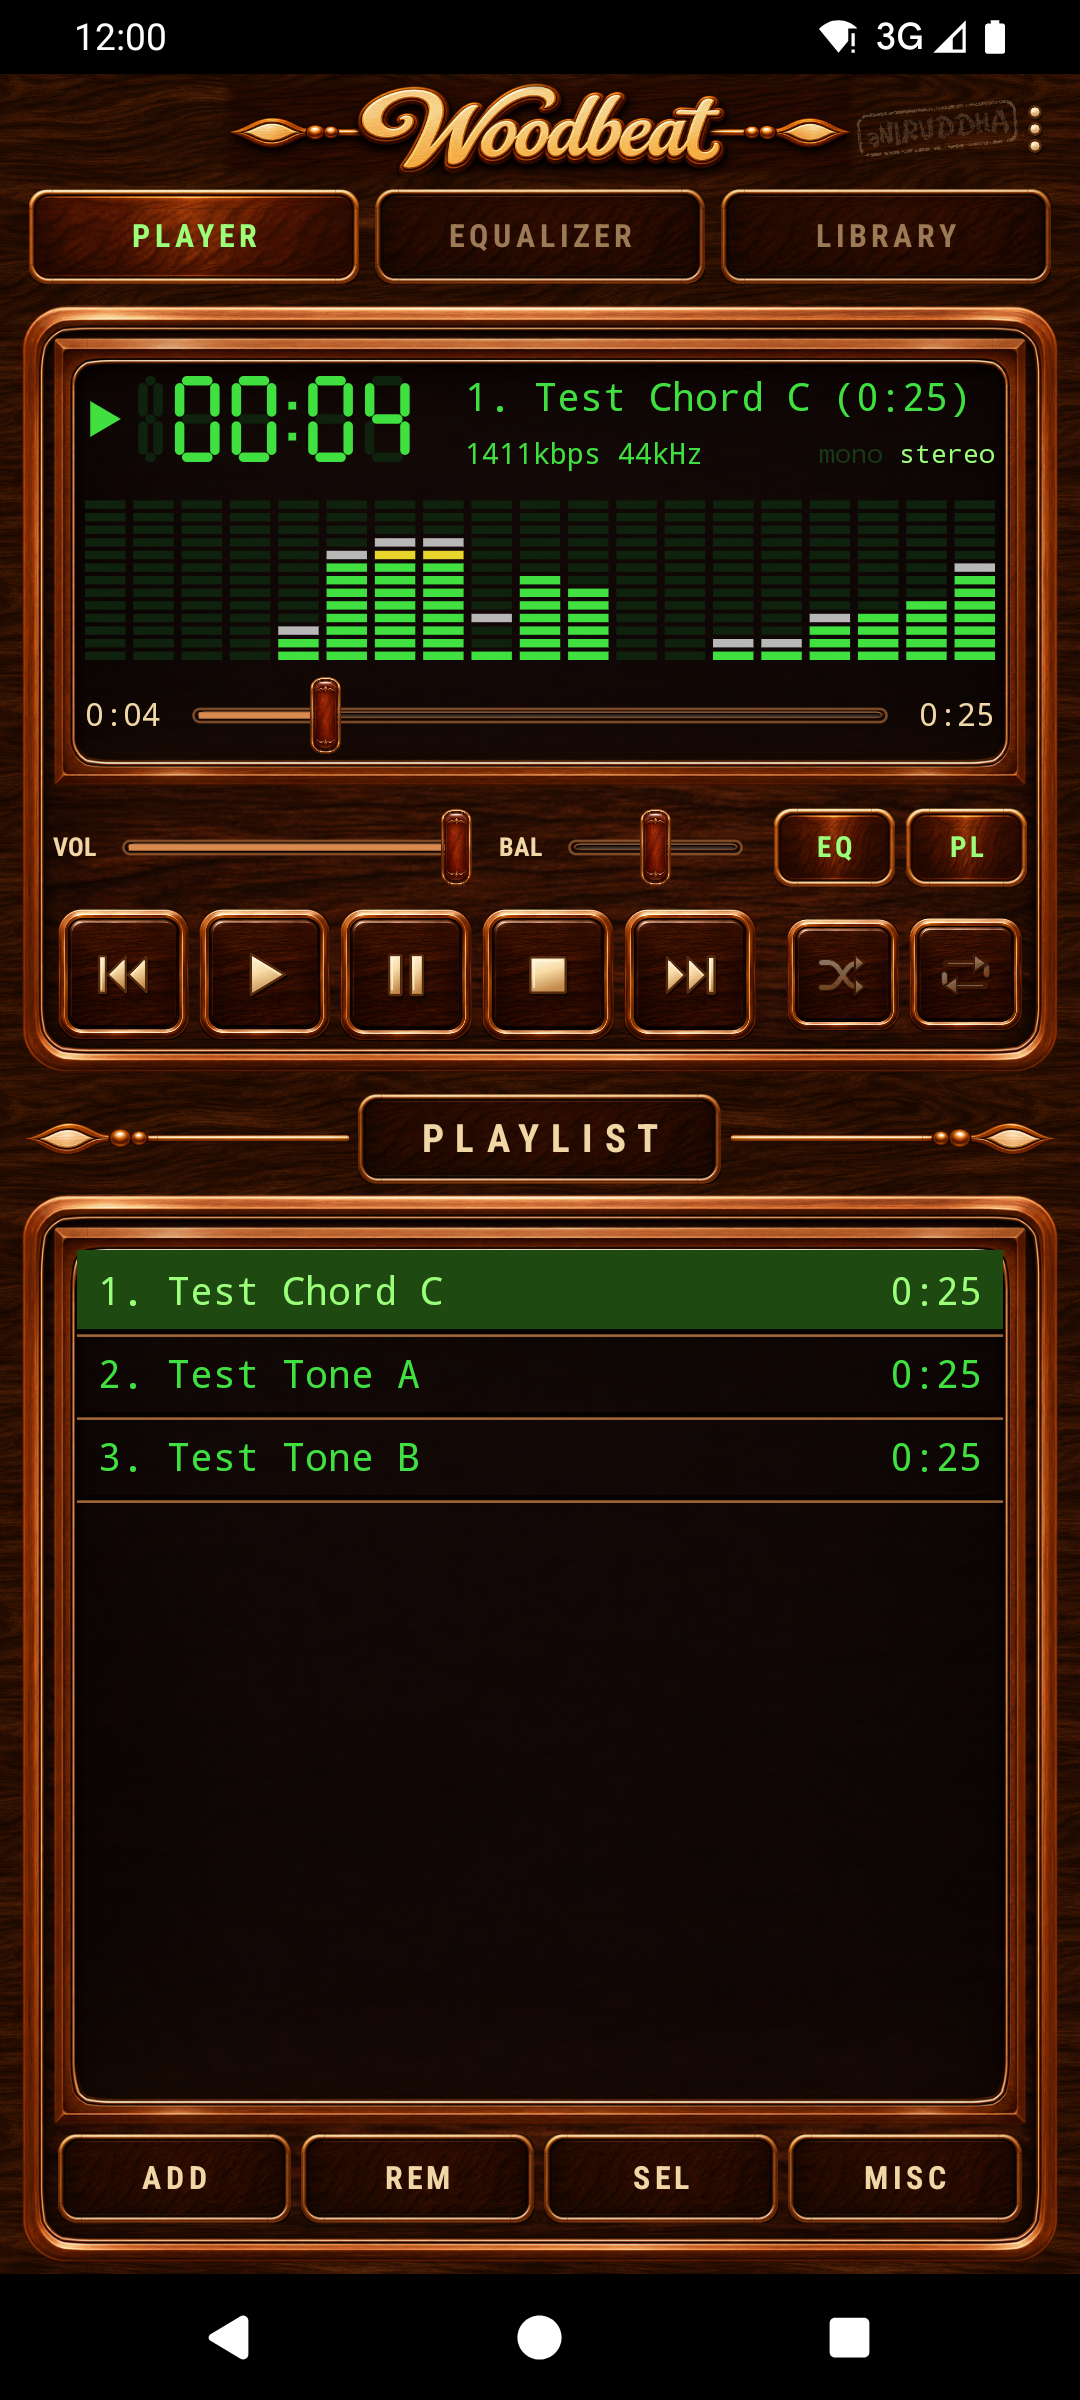
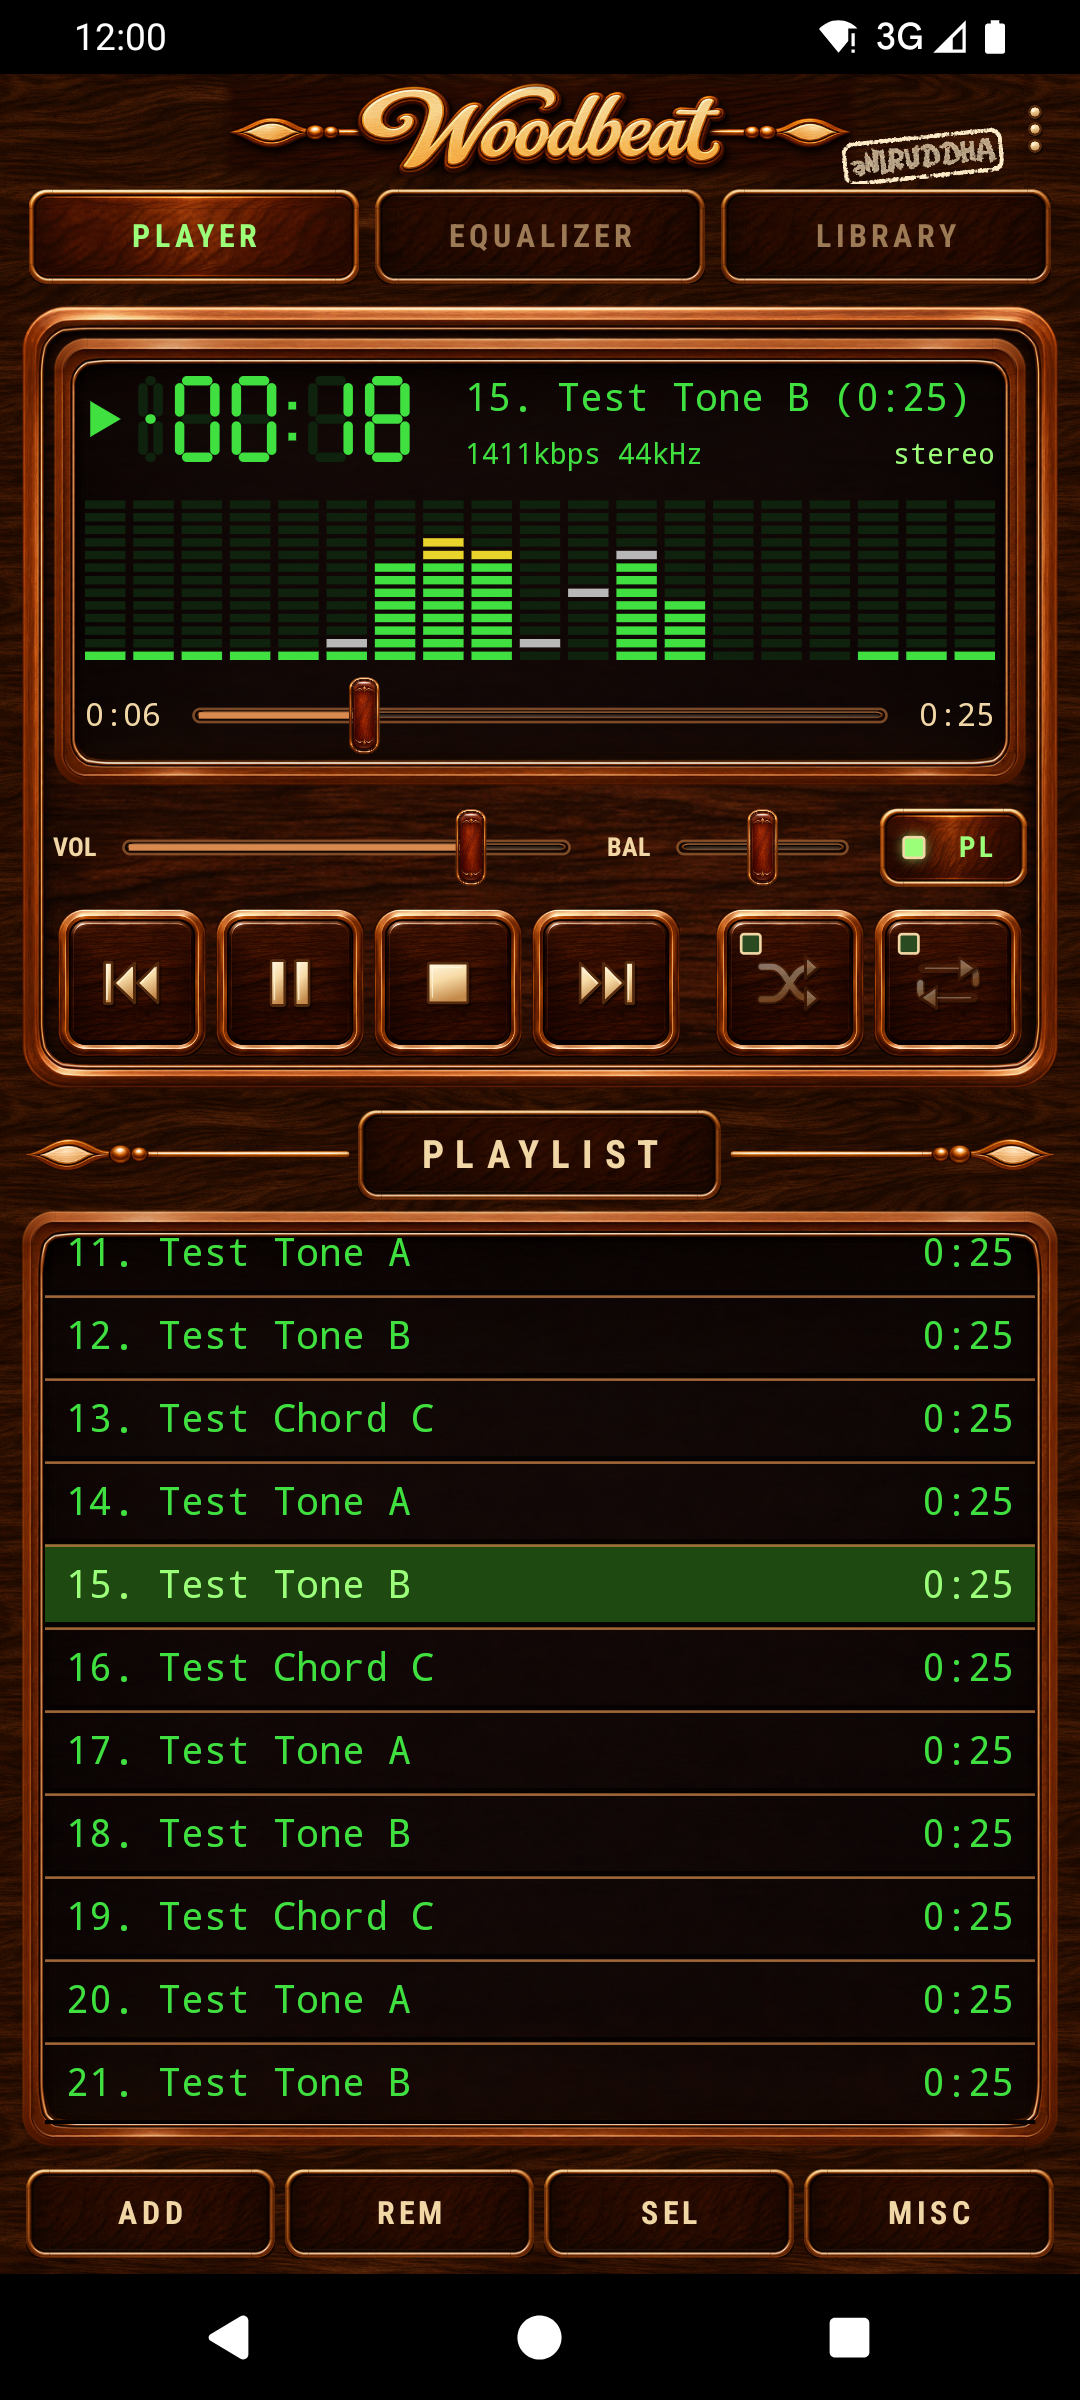
WoodBeat 0.1.3: play/pause button, toggle lights, playlist follows the song
- Play and Pause merged into one button; Stop stays separate
- Shuffle and repeat full size on the right, with Winamp-style toggle
  lights (ivory-framed green square); PL button gets the same light
- EQ button removed from the Player (Equalizer has its own tab);
  volume slider takes the space
- Playlist brings the playing song into view when you return, follows
  it on song change only if it was on screen, never while scrolling
- New list shows the playlist again
- README screenshots retaken

diff --git a/src/main/kotlin/app/adc/woodbeat/PlayerPage.kt b/src/main/kotlin/app/adc/woodbeat/PlayerPage.kt
@@ -27,8 +27,8 @@ class PlayerPage(private val a: MainActivity) {
     private val seek = WoodSlider(a, false).apply { showFill = true }
     private val volume = WoodSlider(a, false).apply { showFill = true }
     private val balance = WoodSlider(a, false).apply { snapCenter = true; centerTick = true }
-    private val eqToggle = Plaque(a, "EQ", 11f).apply { toggle = true }
-    private val plToggle = Plaque(a, "PL", 11f).apply { toggle = true }
+    private val plToggle = Plaque(a, "PL", 11f).apply { toggle = true; led = true }   // light shows the playlist is visible
+    private val playPause = WoodButton(a, R.drawable.glyph_play)
     private val shuffle = WoodButton(a, R.drawable.glyph_shuffle).apply { toggle = true }
     private val repeat = WoodButton(a, R.drawable.glyph_repeat).apply { toggle = true }
     private val list = RecyclerView(a)
@@ -90,11 +90,10 @@ class PlayerPage(private val a: MainActivity) {
         // Volume / balance / EQ / PL
         val vb = a.hbox()
         vb.addView(a.text(10f, Colors.IVORY, bold = true).apply { text = "VOL" }, lp(WRAP, WRAP))
-        vb.addView(volume, lp(0, a.dpi(30f), 2f).margins(a, 4f, 0f, 8f, 0f))
+        vb.addView(volume, lp(0, a.dpi(30f), 2.6f).margins(a, 4f, 0f, 8f, 0f))   // takes the old EQ button's space
         vb.addView(a.text(10f, Colors.IVORY, bold = true).apply { text = "BAL" }, lp(WRAP, WRAP))
         vb.addView(balance, lp(0, a.dpi(30f), 1.1f).margins(a, 4f, 0f, 6f, 0f))
-        vb.addView(eqToggle, lp(a.dpi(46f), a.dpi(30f)).margins(a, 0f, 0f, 4f, 0f))
-        vb.addView(plToggle, lp(a.dpi(46f), a.dpi(30f)))
+        vb.addView(plToggle, lp(a.dpi(56f), a.dpi(30f)))
         main.addView(vb, lp(MATCH, WRAP).margins(a, 0f, 8f, 0f, 4f))
         volume.value = Engine.prefs(a).getFloat("volume", 1f)
         volume.onChange = { v -> a.controller?.volume = v }
@@ -102,22 +101,20 @@ class PlayerPage(private val a: MainActivity) {
         balance.value = Engine.dsp.balance / 2f + 0.5f
         balance.onChange = { v -> Engine.dsp.balance = (v - 0.5f) * 2f }
         balance.onRelease = { Engine.saveDsp(a) }
-        eqToggle.setOnClickListener { a.showPage(1) }
-        eqToggle.setOnLongClickListener { a.eqPage.setEnabled(!Engine.dsp.enabled); true }
         plToggle.setOnClickListener { setPlaylistVisible(!plToggle.lit) }
 
         // Transport
         val tr = a.hbox()
         fun b(g: Int, click: () -> Unit) = WoodButton(a, g).apply { setOnClickListener { click() } }
+        // Play and Pause share one button (shows ⏸ while playing); Stop stays separate.
         val buttons = listOf(
             b(R.drawable.glyph_previous) { a.controller?.seekToPreviousMediaItem() },
-            b(R.drawable.glyph_play) { play() },
-            b(R.drawable.glyph_pause) { pause() },
+            playPause.apply { setOnClickListener { togglePlay() } },
             b(R.drawable.glyph_stop) { stop() },
             b(R.drawable.glyph_next) { a.controller?.seekToNextMediaItem() },
         )
         for (x in buttons) tr.addView(x, lp(0, WRAP, 1f).margins(a, 2f, 0f, 2f, 0f))
-        tr.addView(View(a), lp(a.dpi(8f), 1))
+        tr.addView(View(a), lp(a.dpi(10f), 1))     // gap: shuffle / repeat stay grouped on the right
         shuffle.setOnClickListener { a.controller?.let { it.shuffleModeEnabled = !it.shuffleModeEnabled } }
         repeat.setOnClickListener {
             a.controller?.let {
@@ -128,8 +125,8 @@ class PlayerPage(private val a: MainActivity) {
                 }
             }
         }
-        tr.addView(shuffle, lp(0, WRAP, 0.85f).margins(a, 2f, 0f, 2f, 0f))
-        tr.addView(repeat, lp(0, WRAP, 0.85f).margins(a, 2f, 0f, 2f, 0f))
+        tr.addView(shuffle, lp(0, WRAP, 1f).margins(a, 2f, 0f, 2f, 0f))
+        tr.addView(repeat, lp(0, WRAP, 1f).margins(a, 2f, 0f, 2f, 0f))
         main.addView(tr, lp(MATCH, WRAP).margins(a, 0f, 4f, 0f, 0f))
 
         val mainPanel = a.framed(main, raised = true, padDp = 12f)
@@ -142,6 +139,11 @@ class PlayerPage(private val a: MainActivity) {
         list.layoutManager = LinearLayoutManager(a)
         list.adapter = adapter
         list.addItemDecoration(RowLines(a))
+        list.addOnScrollListener(object : RecyclerView.OnScrollListener() {
+            override fun onScrollStateChanged(rv: RecyclerView, newState: Int) {
+                userScrolling = newState != RecyclerView.SCROLL_STATE_IDLE
+            }
+        })
         pl.addView(a.framed(list, raised = false, padDp = 9f), lp(MATCH, 0, 1f))
 
         val buttonsRow = a.hbox()
@@ -196,9 +198,11 @@ class PlayerPage(private val a: MainActivity) {
         c.play()
     }
 
-    private fun pause() {
+    /** The combined button: pause while playing (or buffering), otherwise play / resume. */
+    private fun togglePlay() {
         val c = a.controller ?: return
-        if (c.isPlaying) c.pause() else if (c.playbackState == Player.STATE_READY) c.play()
+        if (c.playWhenReady && c.playbackState != Player.STATE_IDLE && c.playbackState != Player.STATE_ENDED) c.pause()
+        else play()
     }
 
     private fun stop() {
@@ -250,7 +254,7 @@ class PlayerPage(private val a: MainActivity) {
 
     private fun optsAction(s: String) {
         when (s) {
-            "New list" -> { a.controller?.clearMediaItems(); selected.clear() }
+            "New list" -> { a.controller?.clearMediaItems(); selected.clear(); setPlaylistVisible(true) }
             "Save list…" -> a.askText("Save playlist", "My playlist") { name ->
                 Library.savePlaylist(a, name, a.queue.toList()); a.toast("Saved \"$name\"")
             }
@@ -283,6 +287,33 @@ class PlayerPage(private val a: MainActivity) {
     fun onConnected() {
         a.controller?.volume = volume.value
         refreshState()
+        revealCurrent()                        // coming back to the app: show what's playing
+    }
+
+    // ------------------------------------------------------------ keeping the playing song in view
+
+    private var userScrolling = false
+    private var lastIndex = -1
+
+    private fun isVisible(i: Int): Boolean {
+        val lm = list.layoutManager as LinearLayoutManager
+        val first = lm.findFirstCompletelyVisibleItemPosition()
+        return first != RecyclerView.NO_POSITION && i in first..lm.findLastCompletelyVisibleItemPosition()
+    }
+
+    /** Scrolls the playing song into view (a couple of rows below the top) unless it is visible or you're scrolling. */
+    fun revealCurrent() {
+        list.post {
+            val i = a.controller?.currentMediaItemIndex ?: return@post
+            if (i < 0 || i >= a.queue.size || userScrolling || isVisible(i)) return@post
+            (list.layoutManager as LinearLayoutManager).scrollToPositionWithOffset(maxOf(i - 2, 0), 0)
+        }
+    }
+
+    /** Song changed: follow it only if the previous song was on screen (you were watching it). */
+    private fun onTrackChanged(previous: Int) {
+        if (previous < 0 || userScrolling || !isVisible(previous)) return
+        revealCurrent()
     }
 
     fun nowTitle(t: Track): String {
@@ -293,11 +324,14 @@ class PlayerPage(private val a: MainActivity) {
 
     fun refreshState() {
         val c = a.controller ?: return
+        val active = c.playWhenReady && c.playbackState != Player.STATE_IDLE && c.playbackState != Player.STATE_ENDED
+        playPause.setGlyph(if (active) R.drawable.glyph_pause else R.drawable.glyph_play)
         shuffle.lit = c.shuffleModeEnabled
         repeat.lit = c.repeatMode != Player.REPEAT_MODE_OFF
         repeat.badgeText = if (c.repeatMode == Player.REPEAT_MODE_ONE) "1" else null
-        eqToggle.lit = Engine.dsp.enabled
         spectrum.playing = c.isPlaying
+        val idx = c.currentMediaItemIndex
+        if (idx != lastIndex) { val prev = lastIndex; lastIndex = idx; onTrackChanged(prev) }
         adapter.notifyDataSetChanged()
         tick()
     }

diff --git a/src/main/kotlin/app/adc/woodbeat/Widgets.kt b/src/main/kotlin/app/adc/woodbeat/Widgets.kt
@@ -147,7 +147,21 @@ class WoodButton(ctx: Context, glyph: Int, private val square: Boolean = true) :
             badge.textSize = s * 0.22f
             canvas.drawText(it, width / 2f, height / 2f + s * 0.09f, badge)
         }
+        if (toggle) {
+            // Winamp-style toggle light: small square at the top-left of the button face
+            val l = s * 0.13f
+            val x = left + s * 0.17f; val y = top + s * 0.17f
+            rect.set(x, y, x + l, y + l)
+            led.color = if (lit) Colors.LCD_BRIGHT else 0xFF2A4A22.toInt()
+            led.setShadowLayer(if (lit) s * 0.06f else 0.01f, 0f, 0f, if (lit) 0xCC9CFF7A.toInt() else 0)
+            canvas.drawRoundRect(rect, l * 0.15f, l * 0.15f, led)
+            ledEdge.strokeWidth = maxOf(dp(1f), s * 0.018f)        // ivory frame so the light stands out on the wood
+            canvas.drawRoundRect(rect, l * 0.15f, l * 0.15f, ledEdge)
+        }
     }
+
+    private val led = Paint(Paint.ANTI_ALIAS_FLAG)
+    private val ledEdge = Paint(Paint.ANTI_ALIAS_FLAG).apply { style = Paint.Style.STROKE; color = Colors.IVORY }
 }
 
 /** Ready-made square icon button art (back, search, URL). Long-press shows its name. */
@@ -202,6 +216,10 @@ class Plaque(ctx: Context, text: String, private val sizeSp: Float = 13f) : View
     /** Secondary action (e.g. CANCEL): dimmed caption so the main button stands out. */
     var secondary = false
         set(v) { field = v; invalidate() }
+    /** Winamp-style toggle light at the left of the caption (same look as on shuffle / repeat). */
+    var led = false
+    private val ledFill = Paint(Paint.ANTI_ALIAS_FLAG)
+    private val ledEdge = Paint(Paint.ANTI_ALIAS_FLAG).apply { style = Paint.Style.STROKE; color = Colors.IVORY }
 
     init { isClickable = true; isFocusable = true }
 
@@ -228,6 +246,17 @@ class Plaque(ctx: Context, text: String, private val sizeSp: Float = 13f) : View
             else -> Colors.IVORY
         }
         var cx = width / 2f
+        if (led) {
+            val l = height * 0.26f
+            val x = dp(9f); val y = (height - l) / 2f
+            val r = RectF(x, y, x + l, y + l)
+            ledFill.color = if (lit) Colors.LCD_BRIGHT else 0xFF2A4A22.toInt()
+            ledFill.setShadowLayer(if (lit) l * 0.45f else 0.01f, 0f, 0f, if (lit) 0xCC9CFF7A.toInt() else 0)
+            canvas.drawRoundRect(r, l * 0.15f, l * 0.15f, ledFill)
+            ledEdge.strokeWidth = dp(1f)
+            canvas.drawRoundRect(r, l * 0.15f, l * 0.15f, ledEdge)
+            cx = (x + l + width) / 2f                              // caption centred in the space right of the light
+        }
         if (dropDown) {
             cx -= dp(9f)
             val s = dp(16f)

diff --git a/src/main/kotlin/app/adc/woodbeat/MainActivity.kt b/src/main/kotlin/app/adc/woodbeat/MainActivity.kt
@@ -240,6 +240,7 @@ class MainActivity : Activity() {
                 override fun onPageSelected(position: Int) {
                     tabs.forEachIndexed { i, t -> t.lit = i == position }
                     updateStrip()
+                    if (firstTab == 0 && position == 0) playerPage.revealCurrent()   // back on Player: show what's playing
                 }
             })
         }

diff --git a/README.md b/README.md
@@ -2,28 +2,28 @@
 
 Android music player and internet radio with a hand-crafted wooden look, in the spirit of the classic desktop players — by **Aniruddha DuttaChowdhury**.
 
-Version **0.1.2** (build 36). Package: `app.adc.woodbeat`. Android 8.0+ (phones and tablets).
+Version **0.1.3** (build 40). Package: `app.adc.woodbeat`. Android 8.0+ (phones and tablets).
 
 [Download APK](https://github.com/aniruddhaKol/WoodBeat/releases/latest)
 
 ## Screenshots
 
-Captured on the Android emulator, 18 November 2026.
+Captured on the Android emulator, 19 November 2026.
 
 | Player | Playlist menu | Equalizer |
 | --- | --- | --- |
-| <img src="docs/screenshots/player.png" width="230" alt="Player with spectrum and playlist"> | <img src="docs/screenshots/playlist-menu.png" width="230" alt="Playlist MISC menu"> | <img src="docs/screenshots/equalizer.png" width="230" alt="10-band equalizer"> |
+| <img src="docs/screenshots/player.png" width="230" alt="Player with spectrum and playlist"> | <img src="docs/screenshots/playlist-menu.png" width="230" alt="Playlist MISC menu with list options"> | <img src="docs/screenshots/equalizer.png" width="230" alt="10-band equalizer"> |
 
 | EQ presets | Library | Radio |
 | --- | --- | --- |
-| <img src="docs/screenshots/eq-presets.png" width="230" alt="Equalizer preset menu"> | <img src="docs/screenshots/library.png" width="230" alt="Library"> | <img src="docs/screenshots/radio.png" width="230" alt="Bengali radio stations"> |
+| <img src="docs/screenshots/eq-presets.png" width="230" alt="Equalizer preset menu with Save / Save as"> | <img src="docs/screenshots/library.png" width="230" alt="Library"> | <img src="docs/screenshots/radio.png" width="230" alt="Bengali radio stations"> |
 
 ## Features
 
-- **Player:** seven-segment time (tap for remaining), scrolling title, kbps / kHz / mono-stereo, spectrum and oscilloscope (tap to switch), seek, volume, balance, shuffle, repeat (all / one).
+- **Player:** seven-segment time (tap for remaining), scrolling title, kbps / kHz / stereo, spectrum and oscilloscope (tap to switch), seek, volume, balance, play/pause, stop, shuffle and repeat (all / one) with Winamp-style toggle lights.
 - **Playlist:** add files, folders or stream URLs; remove, crop, select; sort, reverse, randomize; save and load lists.
 - **Equalizer:** preamp + 10 bands (60 Hz – 16 kHz), response curve, built-in and custom presets, optional auto-load by genre.
-- **Library:** radio, all songs, folders, playlists, albums, artists, genres.
+- **Library:** radio, DLNA (coming soon), all songs, folders, playlists, albums, artists, genres.
 - **Internet radio:** saved stations with a starter list of Indian Bengali stations, radio-browser.info search, Play URL.
 - Background playback with notification, lock-screen and Bluetooth controls; opens audio files from file managers.
 
